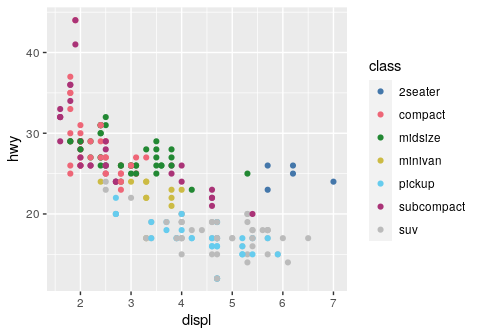
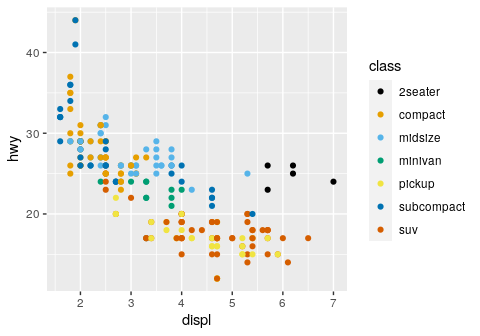
Add Okabe and Ito colour scheme

diff --git a/README.md b/README.md
@@ -31,8 +31,8 @@ Color blindness affects a large number of individuals. When
 communicating scientific results colour palettes must therefore be
 carefully chosen to be accessible to all readers.
 
-This R package provides an implementation of Paul Tol’s colour
-schemes\[1\]. These schemes are ready for each type of data
+This R package provides an implementation of Paul Tol\[1\] and Okabe and
+Ito\[2\] colour schemes. These schemes are ready for each type of data
 (qualitative, diverging or sequential), with colours that are distinct
 for all people, including colour-blind readers. This package also
 provides tools to simulate colour-blindness and to test how well the
@@ -106,7 +106,7 @@ plot_scheme(bright(7), colours = TRUE)
 # Use with ggplot2
 ggplot(data = mpg, mapping = aes(x = displ, y = hwy, colour = class)) +
   geom_point() +
-  scale_colour_bright()
+  scale_colour_okabeito()
 ```
 
 <img src="man/figures/README-usage-ggplot2-1.png" style="display: block; margin: auto;" />
@@ -207,6 +207,10 @@ Code of
 Conduct](https://github.com/nfrerebeau/khroma/blob/master/.github/CODE_OF_CONDUCT.md).
 By contributing to this project, you agree to abide by its terms.
 
-1.  Tol, Paul (2018). *Colour Schemes*. SRON. Technical Note
+1.  Tol, P. (2018). *Colour Schemes*. SRON. Technical Note
     No. SRON/EPS/TN/09-002. URL:
     <https://personal.sron.nl/~pault/data/colourschemes.pdf>.
+
+2.  Okabe, M. & Ito, K. (2008). *Color Universal Design (CUD): How to
+    Make Figures and Presentations That Are Friendly to Colorblind
+    People*. URL: <http://jfly.iam.u-tokyo.ac.jp/color>.

diff --git a/NEWS.md b/NEWS.md
@@ -1,6 +1,7 @@
 ## khroma 1.4.0
 ### New functions
-* Add a plot_scheme_colourblind function.
+* Add a `plot_scheme_colourblind` function.
+* Add Okabe and Ito (2008) colour scheme.
 
 ### Bugfixes & changes
 * Restrict the RGB values in the `anomalize` function.
